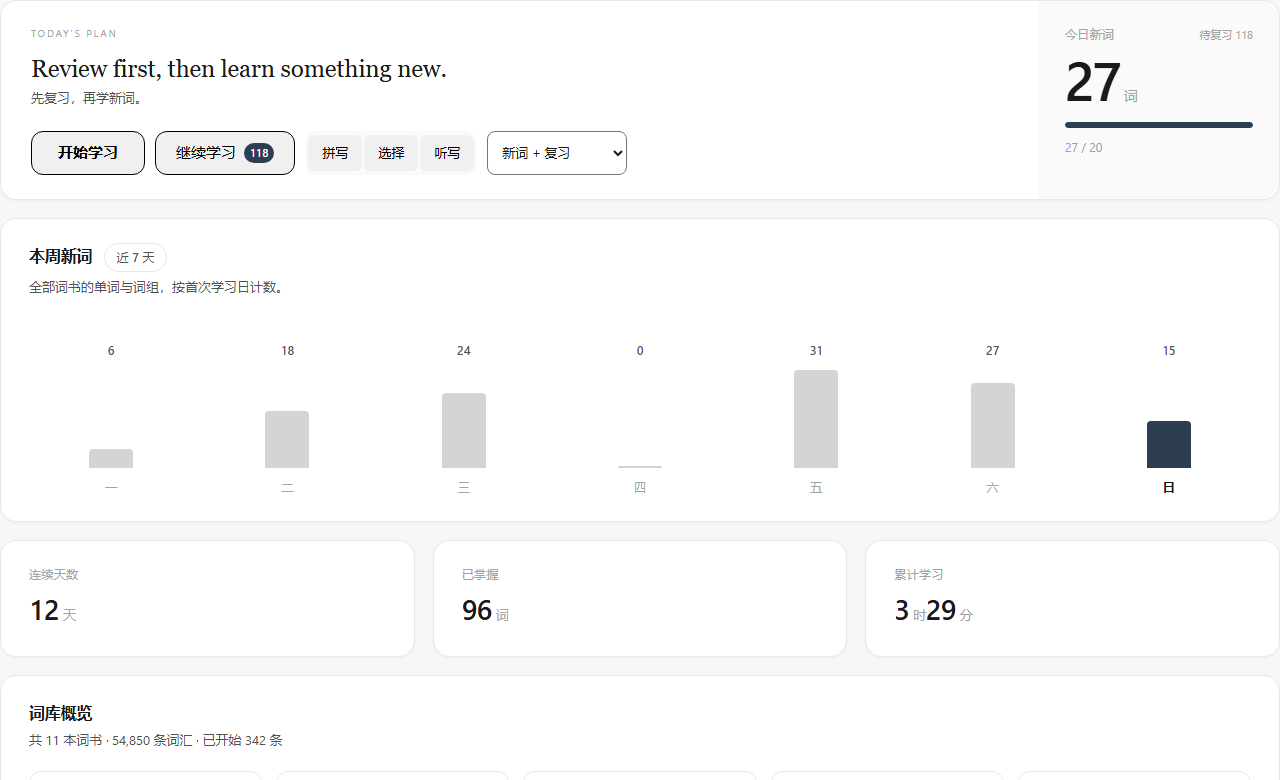
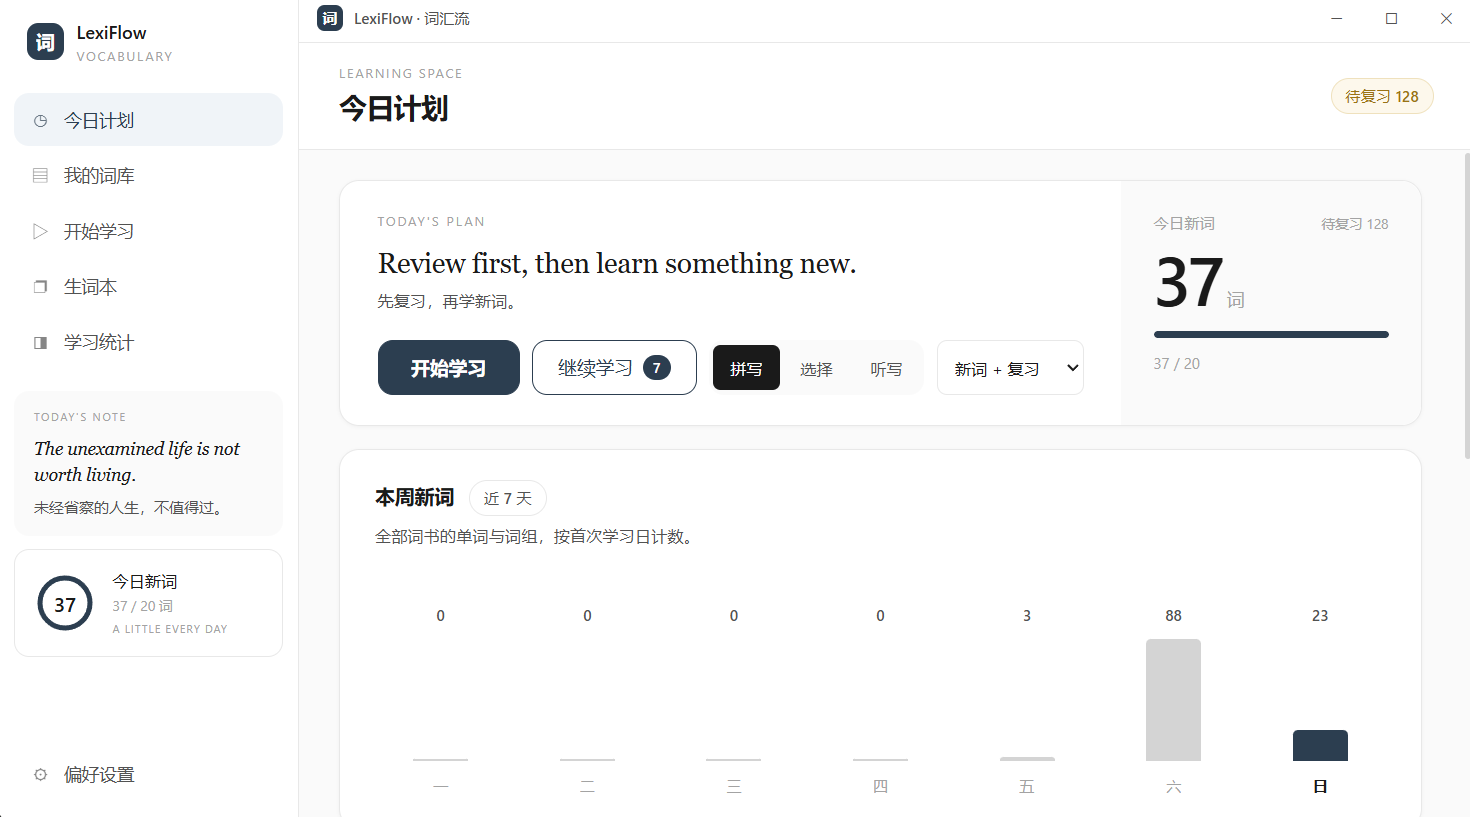
Show all three practice modes in the README
The old images covered the home page, one graded practice screen and the
library. They are replaced with the author's own captures, which show the home
page followed by each of the three modes — spelling, multiple choice and
dictation — so a reader sees what practising actually looks like.

The library screenshot is dropped: the wordbook table above it already lists
every book and its size, and the section is about practice.

Every referenced file exists and nothing unreferenced is left behind.

diff --git a/README.md b/README.md
@@ -67,17 +67,21 @@ FSRS 为每个词单独维护**记忆稳定度**（stability）和**难度**（d
 
 ## 界面
 
-今日计划
+**今日计划** —— 每天打开的第一页，显示今日进度和待复习数量。
 
 ![今日计划](screenshots/01-home.png)
 
-练习页：看释义写英文，答完后按记忆程度评分
+**拼写** —— 看中文释义写英文，逐字母判定，答完后按记忆程度评分。
 
-![练习](screenshots/05-graded.png)
+![拼写模式](screenshots/02-spelling.png)
 
-词库浏览
+**词义选择** —— 四选一，选错会标出你选的那一项。
 
-![词库](screenshots/02-library.png)
+![词义选择](screenshots/03-choice.png)
+
+**听写** —— 只听发音写单词，看不到拼写提示。
+
+![听写模式](screenshots/04-dictation.png)
 
 ## 技术栈
 
